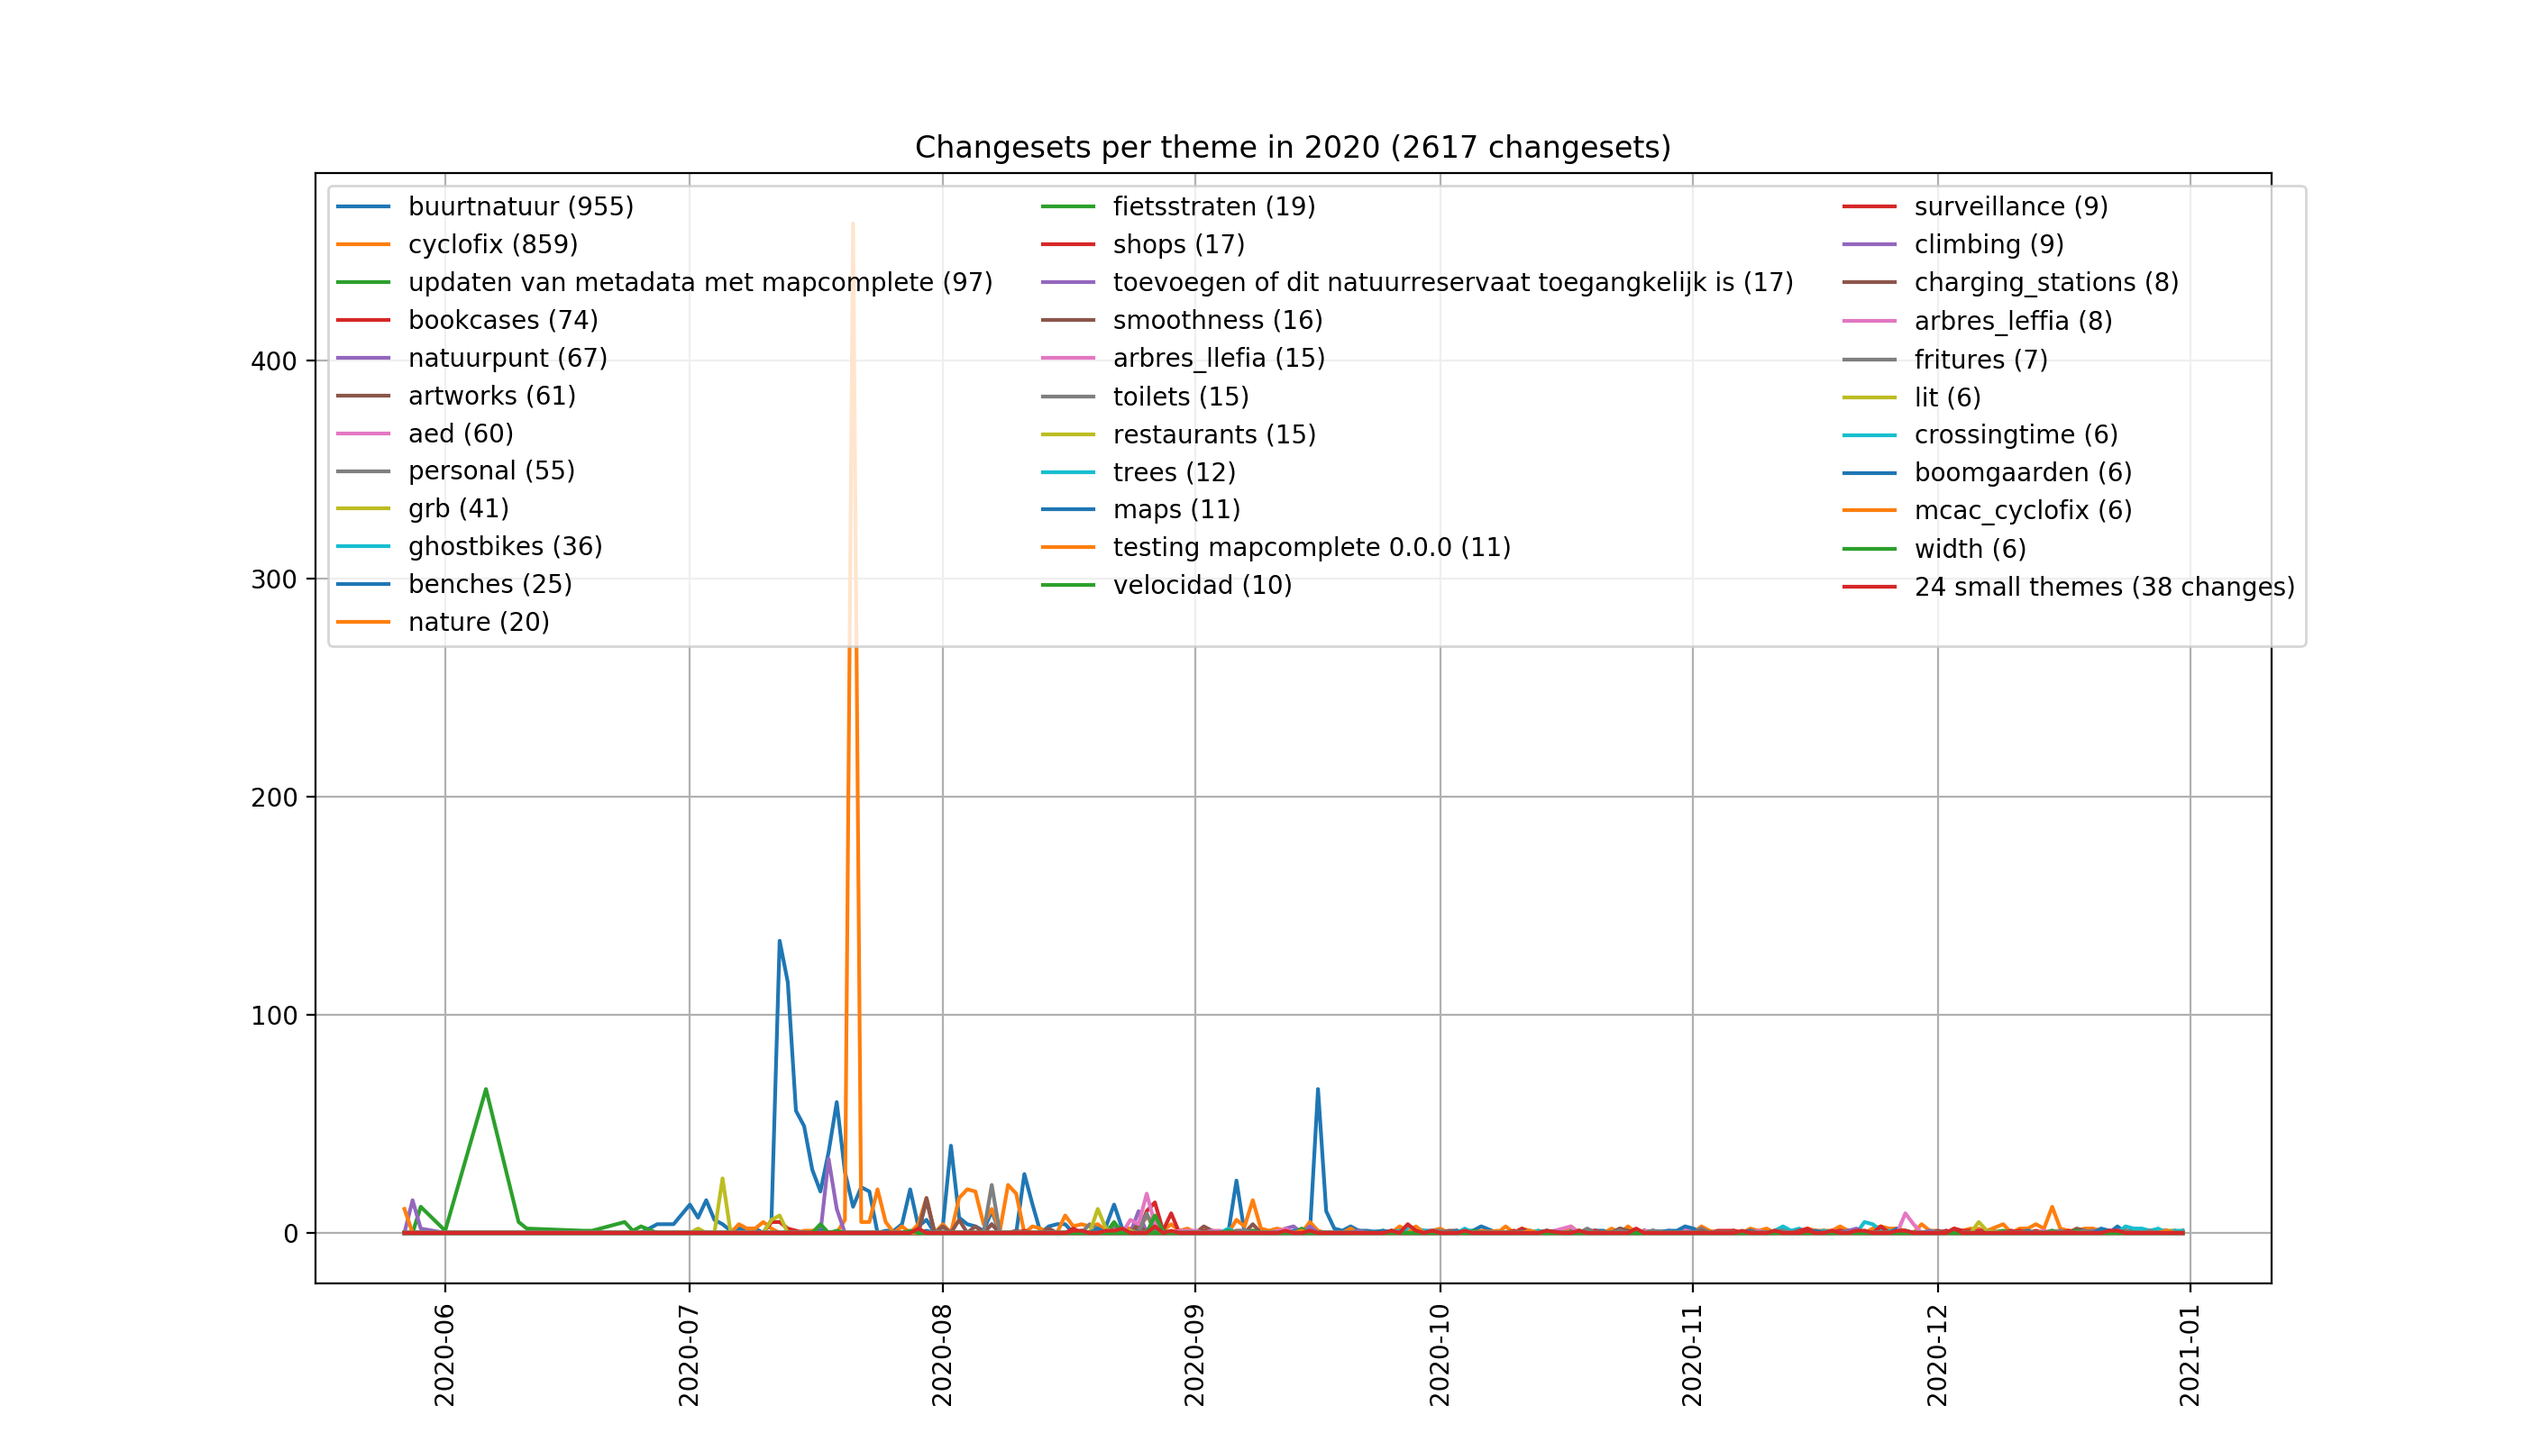
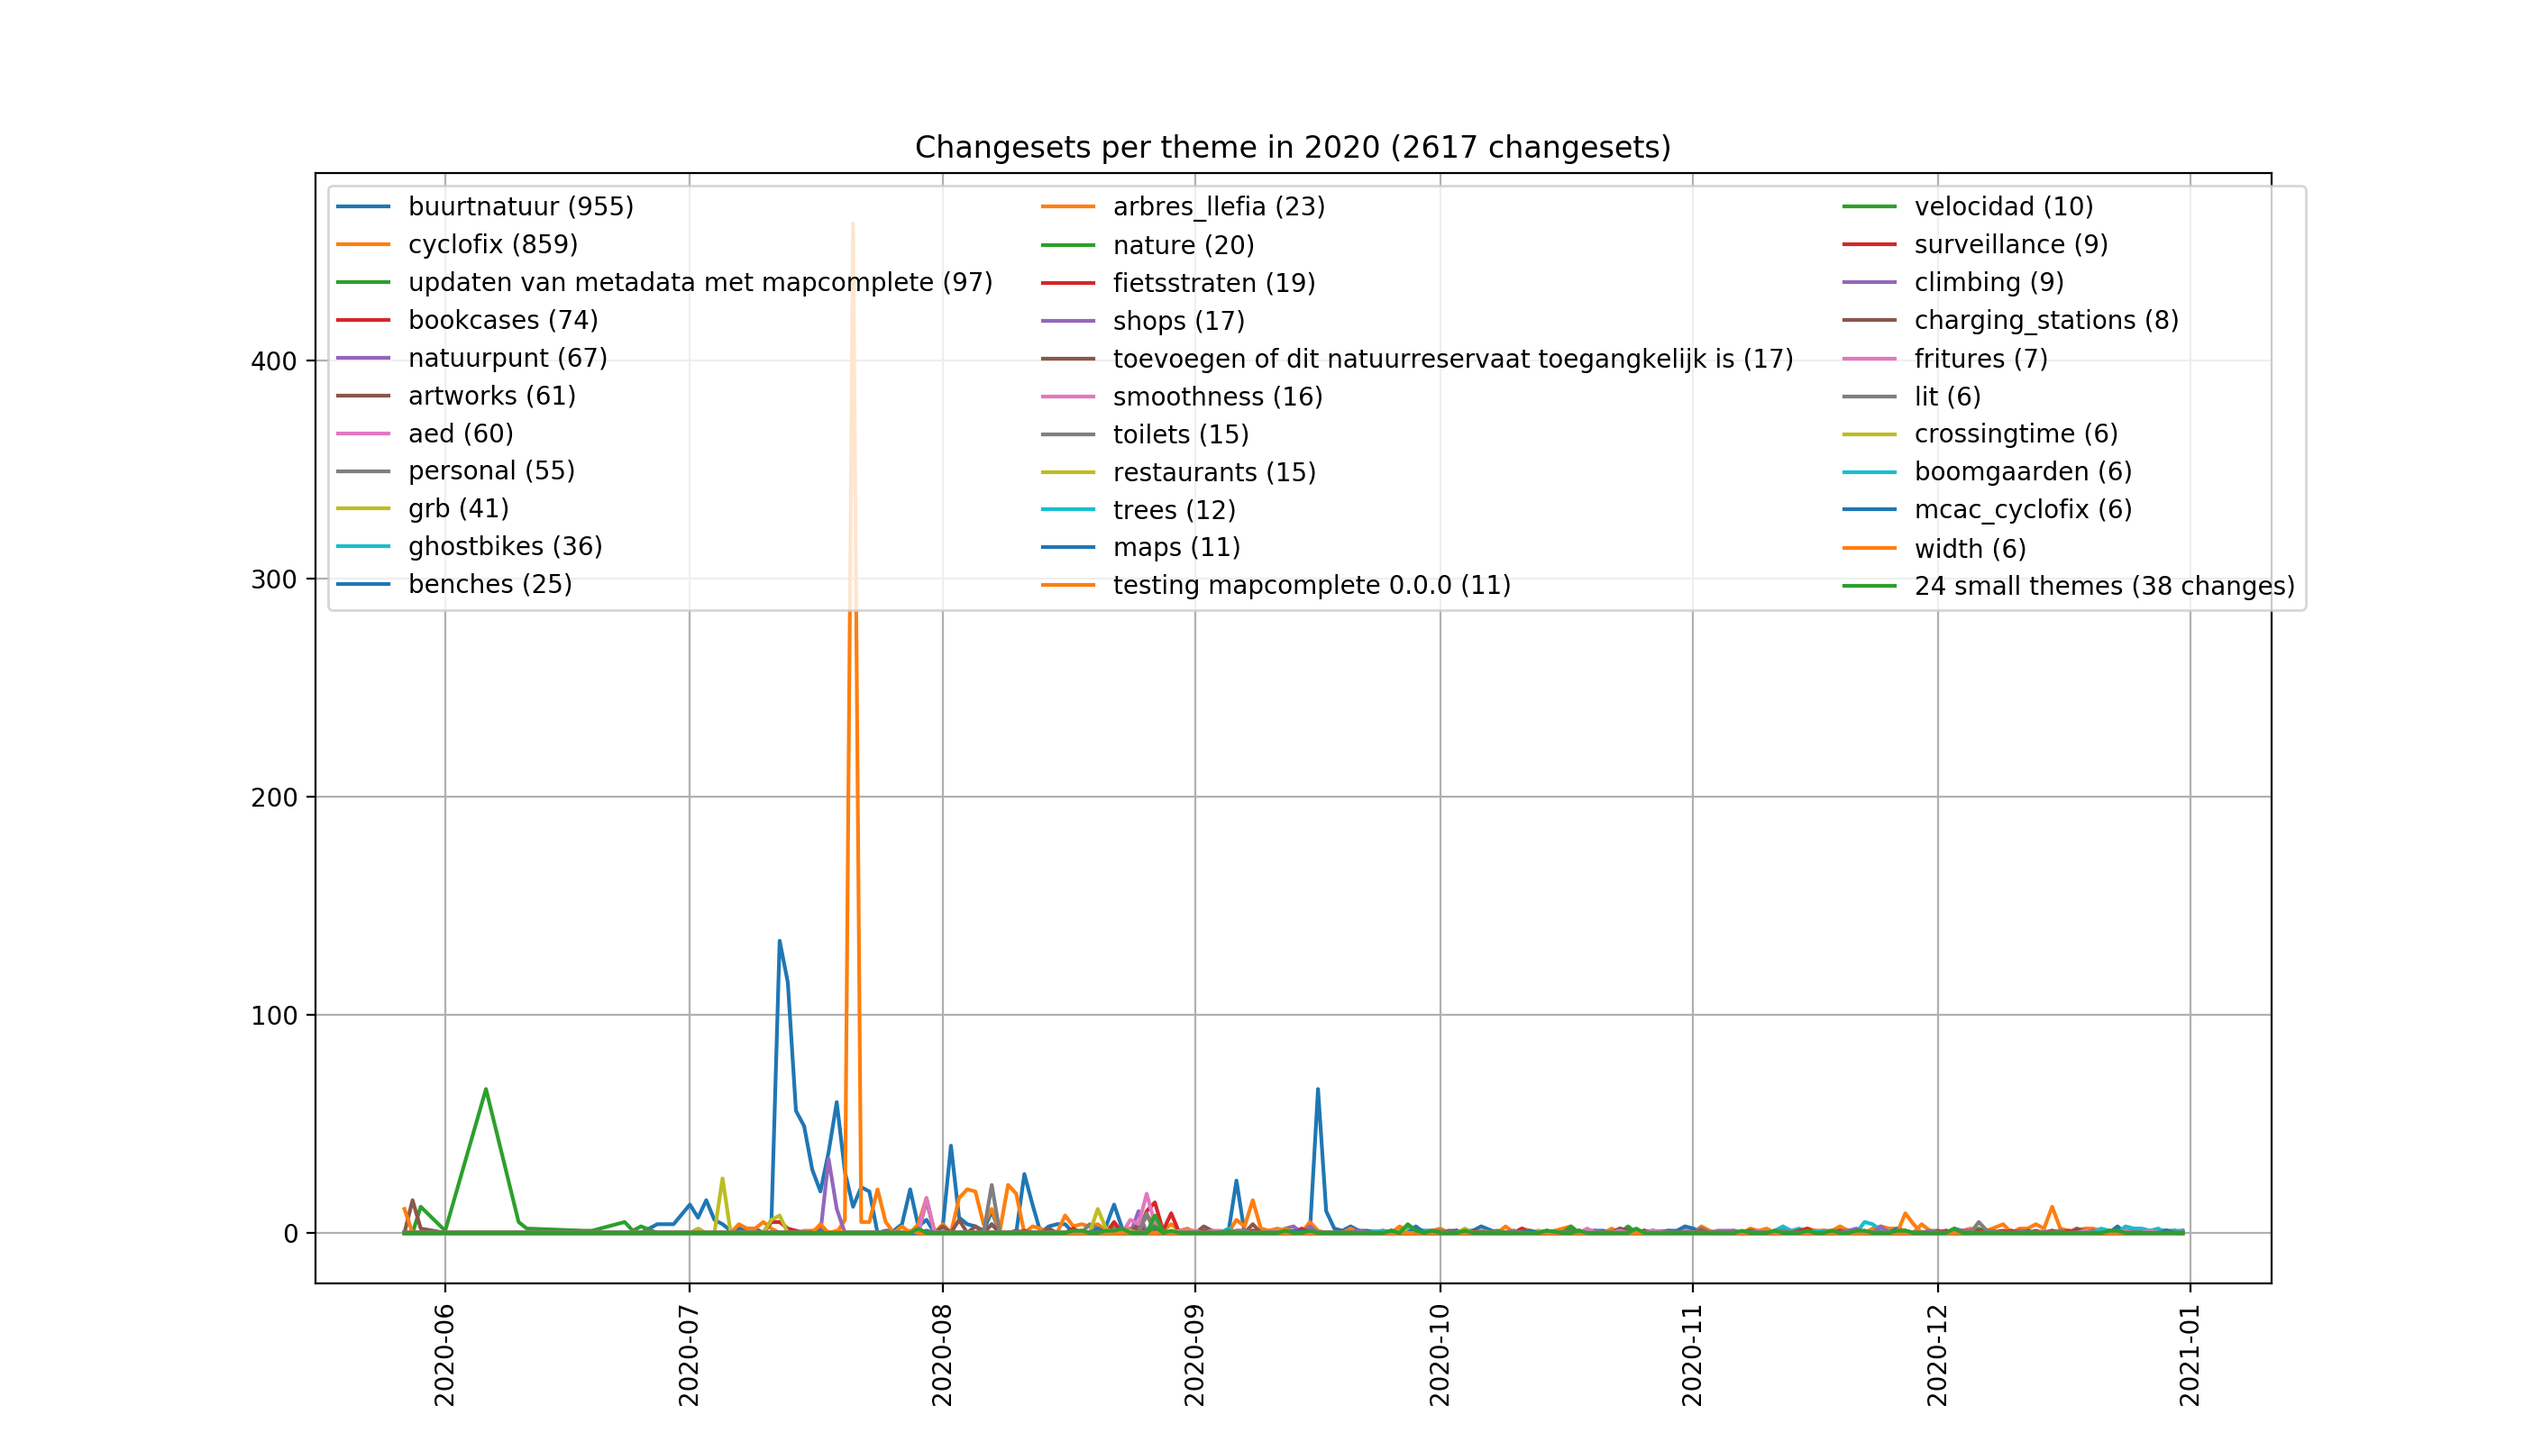
New graphs + contributors per number of mapping days

diff --git a/Docs/Tools/csvGrapher.py b/Docs/Tools/csvGrapher.py
@@ -42,7 +42,7 @@ class Hist:
             return self.dictionary[key]
         return None
 
-    # Returns (keys, values.map(f)). To be used with e.g. pyplot.plot
+    # Returns values.map(f). 
     def map(self, f):
         vals = []
         keys = self.keys()
@@ -60,7 +60,7 @@ class Hist:
             vals.append(running_value)
         return vals
 
-    # Returns [(key, flatten(values))]
+    # Returns [(key, flatten(values))] To be used with e.g. pyplot.plot
     def flatten(self, flatten):
         result = []
         keys = self.keys()
@@ -145,6 +145,29 @@ def create_usercount_graphs(stats, extra_text=""):
     pyplot.ylabel("Number of unique contributors")
     pyplot.xlabel("Date")
     pyplot.savefig("CumulativeContributors" + extra_text + ".png", dpi=400, facecolor='w', edgecolor='w')
+
+
+def create_contributors_per_total_cs(contents, extra_text = "", cutoff=25, per_day=False):
+    hist = Hist("contributor")
+    for cs in contents:
+        hist.add(cs[1], cs[0])
+        
+    count_per_contributor = hist.map(lambda dates : len(set(dates))) if per_day else hist.map(len)
+    
+    per_count = Hist("per cs count")
+    for cs_count in count_per_contributor:
+        per_count.add(min(cs_count, cutoff), 1)            
+
+    to_plot = per_count.flatten(len)
+    to_plot.sort(key=lambda a: a[0])
+    to_plot[ - 1] = (str(cutoff)+ " or more", to_plot[-1][1])
+    pyplot_init()
+    pyplot.bar(list(map(lambda a : str(a[0]), to_plot)), list(map(lambda a: a[1], to_plot)) )
+    pyplot.title("Contributors per total number of changesets"+extra_text)
+    pyplot.ylabel("Number of contributors")
+    pyplot.xlabel("Mapping days with MapComplete" if per_day else "Number of changesets with MapComplete")
+    pyplot.savefig("Contributors per total number of "+("mapping days" if per_day else "changesets")+extra_text+".png", dpi=400)
+
 
 
 def create_theme_breakdown(stats, fileExtra="", cutoff=15):
@@ -292,6 +315,9 @@ def sortable_user_number(kv):
 
 def create_graphs(contents):
     summed_changes_per(contents, "")
+    create_contributors_per_total_cs(contents)
+    create_contributors_per_total_cs(contents, per_day=True)
+    
     cumulative_changes_per(contents, 4, "version number", cutoff=1, sort=sortable_user_number)
     create_usercount_graphs(contents)
     create_theme_breakdown(contents)
@@ -306,6 +332,8 @@ def create_graphs(contents):
     for year in range(2020, currentYear + 1):
         contents_filtered = list(contents_where(contents, 0, str(year)))
         extratext = " in " + str(year)
+        create_contributors_per_total_cs(contents_filtered, extratext)
+        create_contributors_per_total_cs(contents_filtered, extratext, per_day=True)
         create_usercount_graphs(contents_filtered, extratext)
         create_theme_breakdown(contents_filtered, extratext)
         cumulative_changes_per(contents_filtered, 3, "theme", extratext, cutoff=5)
@@ -332,6 +360,8 @@ def create_per_theme_graphs(contents, cutoff=10):
             cumulative_changes_per(filtered, 1, "contributor", " for theme " + theme, cutoff=1)
         if len(filtered) > 25:
             summed_changes_per(filtered, "for theme "+theme)
+
+
 
 
 def create_per_contributor_graphs(contents, least_needed_changesets):
@@ -364,6 +394,7 @@ theme_remappings = {
     "wiki-User-joost_schouppe-geveltuintjes": "geveltuintjes",
     "wiki:User:joost_schouppe/campersite": "campersite",
     "arbres":"arbres_llefia",
+    "aed_brugge": "aed",
      "https://llefia.org/arbres/mapcomplete.json":"arbres_llefia",
     "toevoegen of dit natuurreservaat toegangkelijk is":"buurtnatuur",
     "testing mapcomplete 0.0.0":"buurtnatuur",
@@ -406,10 +437,8 @@ def main():
         print("Found " + str(len(stats)) + " changesets")
         
         # contributor_count(stats)
-   
-        
         create_graphs(stats)
-        create_per_theme_graphs(stats, 15)
+        # create_per_theme_graphs(stats, 15)
         # create_per_contributor_graphs(stats, 25)
     print("All done!")
 
